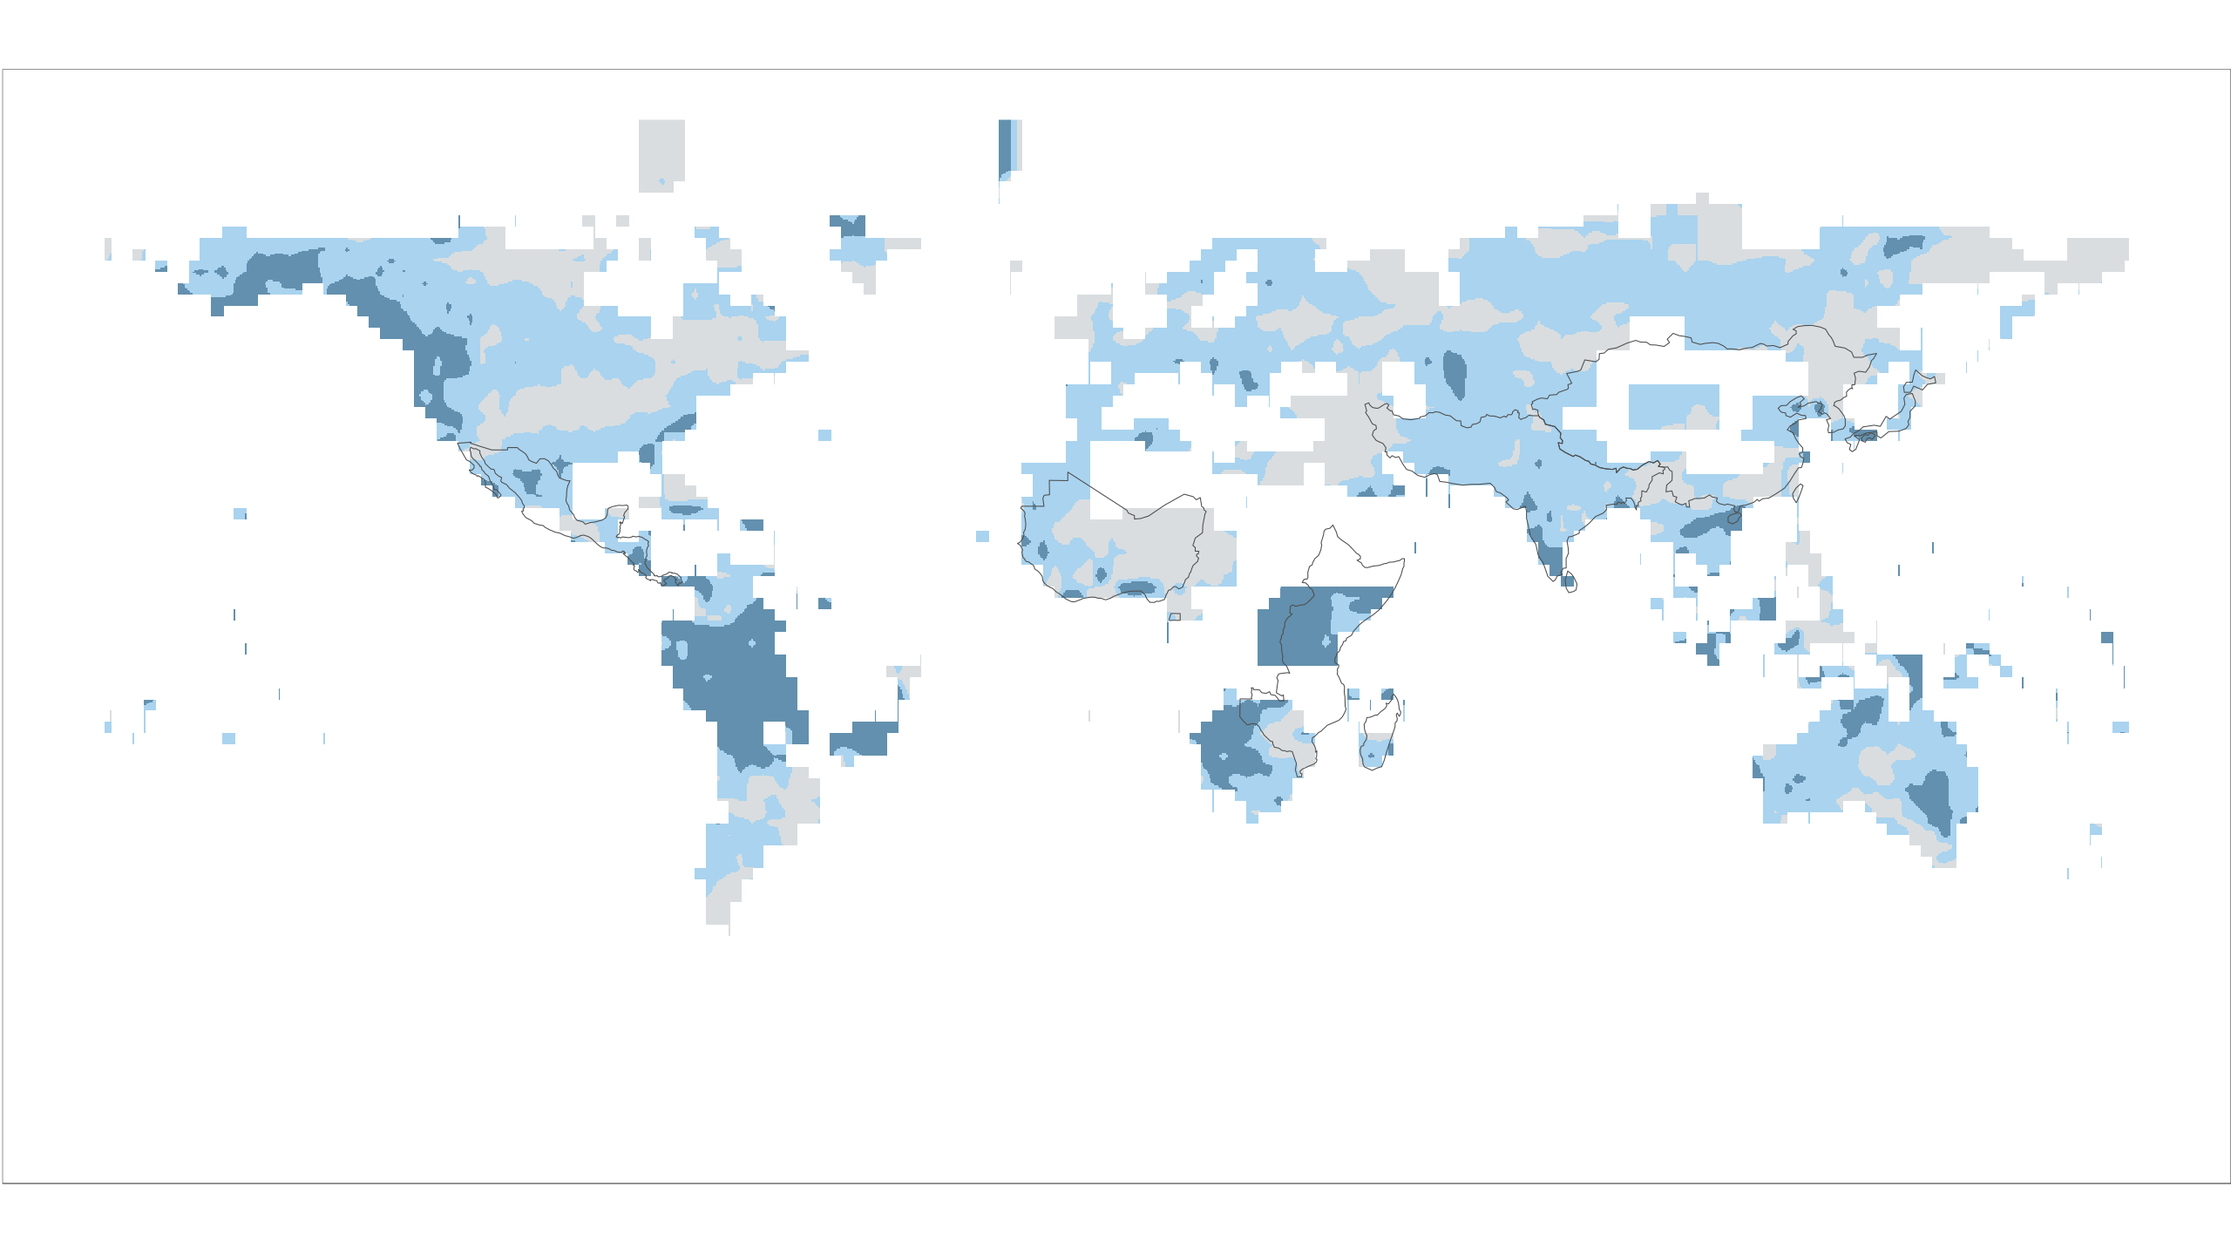
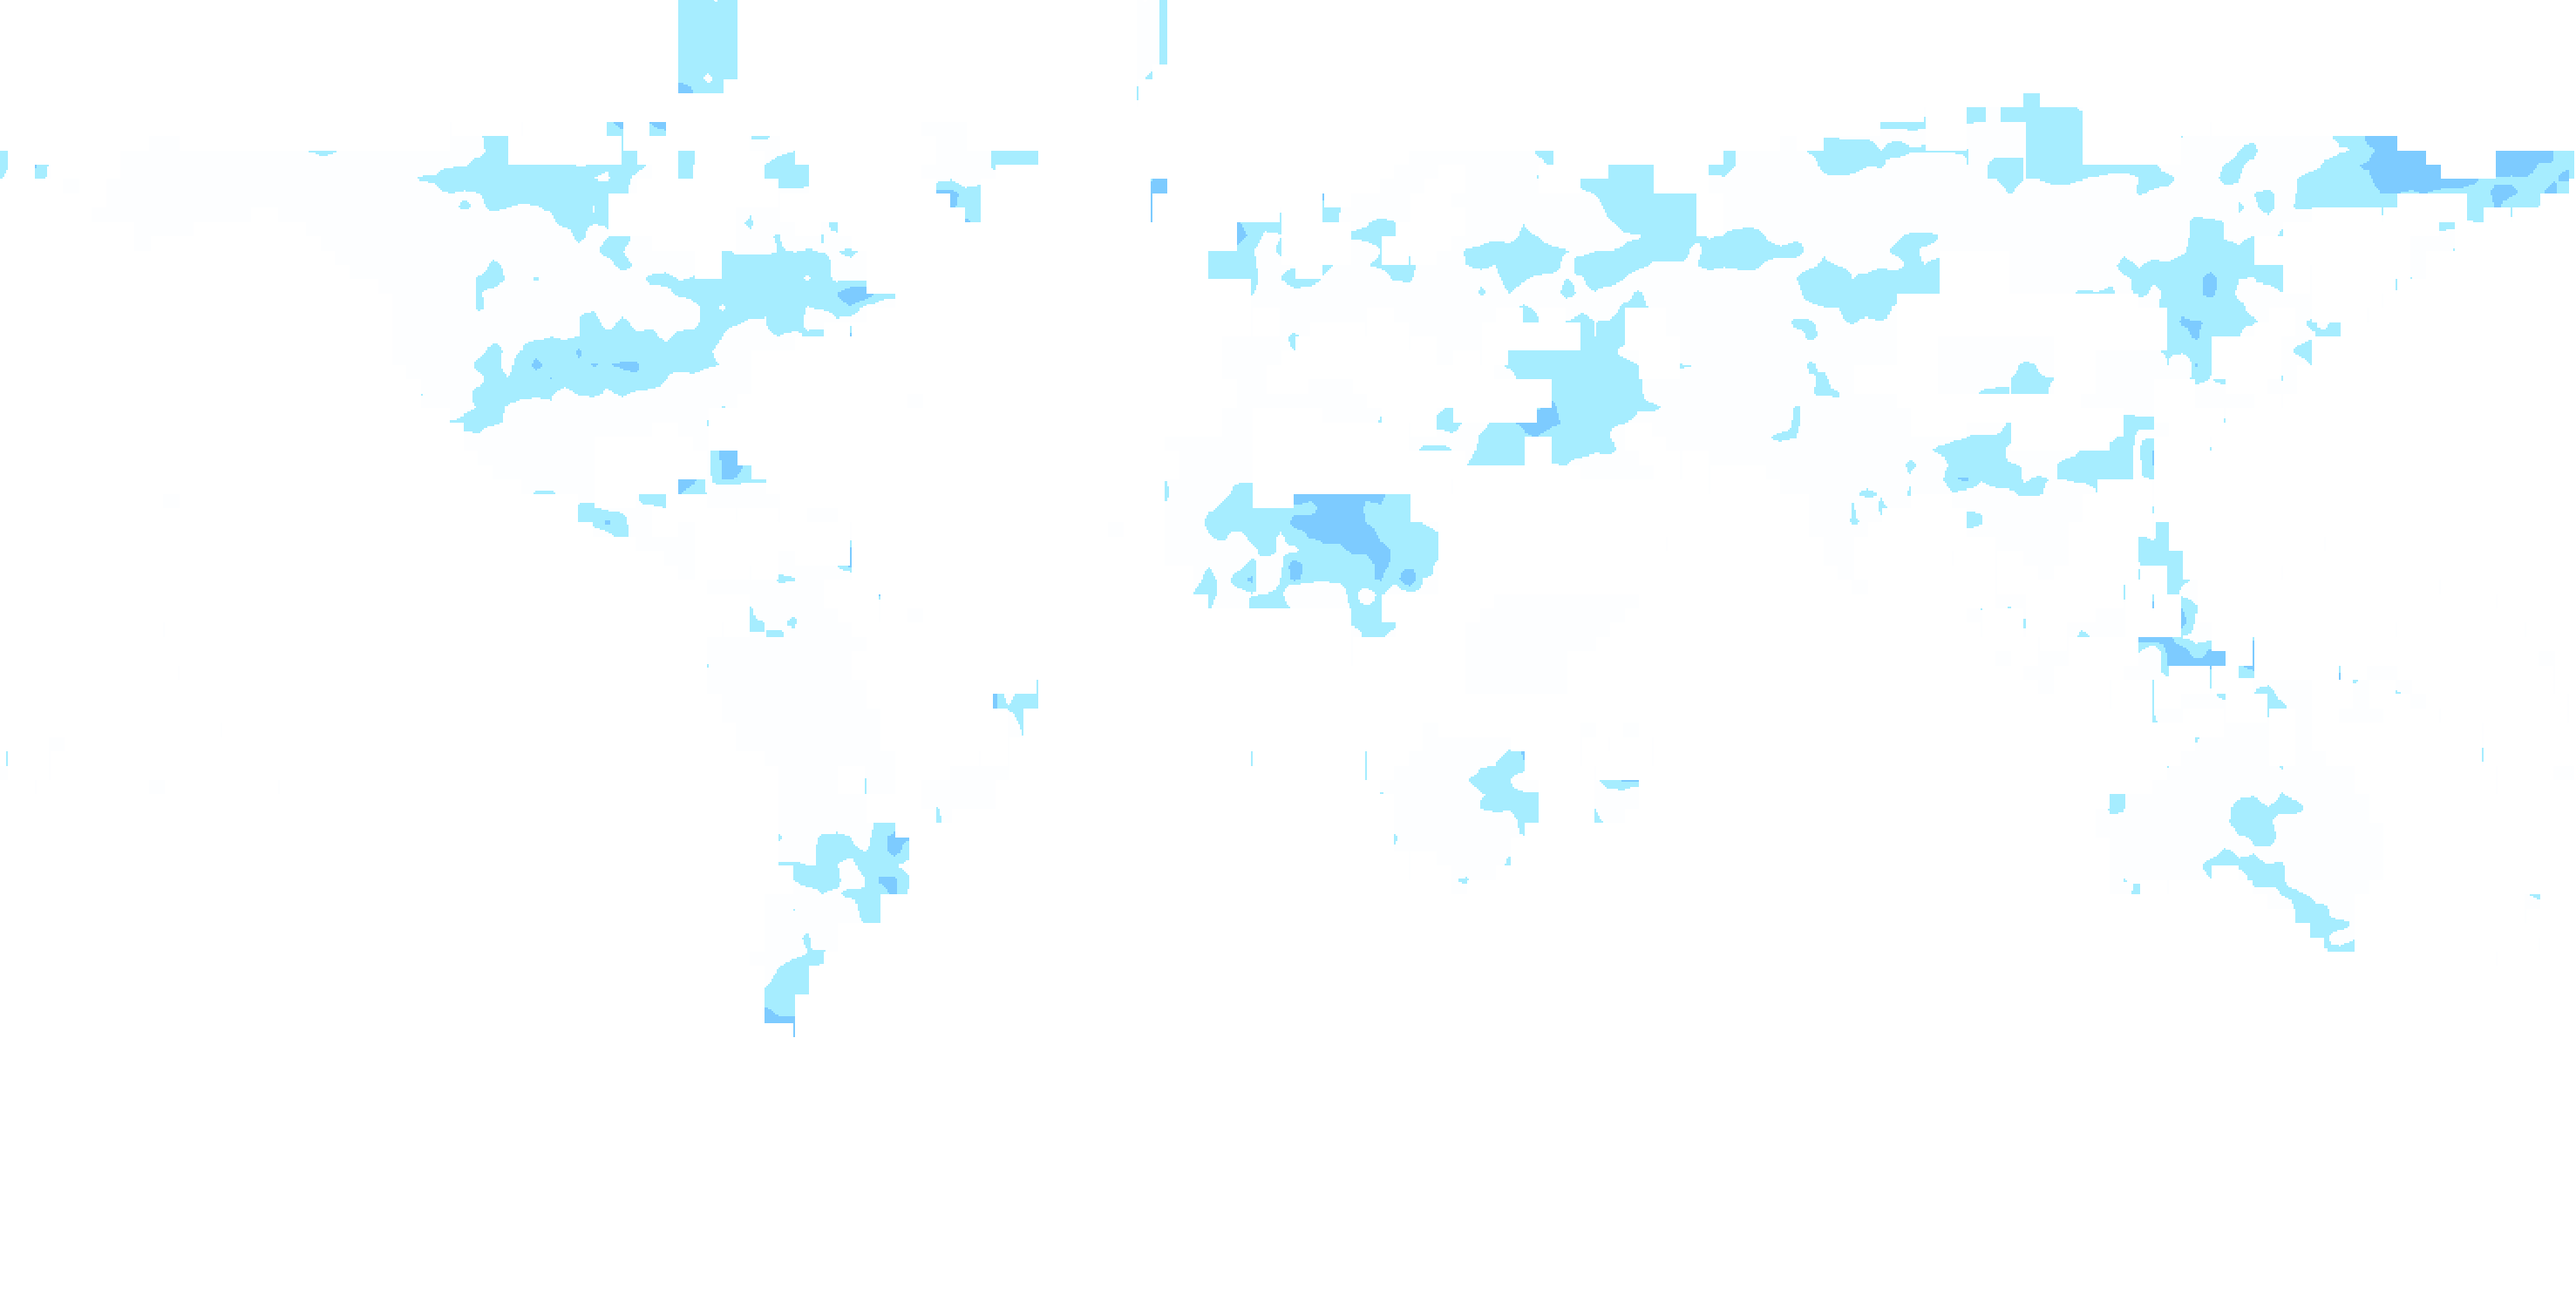
updating files and styles

diff --git a/html/map.html b/html/map.html
@@ -10,11 +10,9 @@
   <link rel='stylesheet' id='et-gf-abel-css' href='https://fonts.googleapis.com/css?family=Abel:400&#038;subset=latin' type='text/css'
     media='all' />
   <script src="https://ajax.googleapis.com/ajax/libs/jquery/3.3.1/jquery.min.js"></script>
-  <link rel="stylesheet" href="https://ajax.googleapis.com/ajax/libs/jqueryui/1.12.1/themes/cupertino/jquery-ui.css">
+  <link rel="stylesheet" href="https://ajax.googleapis.com/ajax/libs/jqueryui/1.12.1/themes/base/jquery-ui.css">
   <script src="https://ajax.googleapis.com/ajax/libs/jqueryui/1.12.1/jquery-ui.min.js"></script>
-  <link rel='stylesheet prefetch' href='https://maxcdn.bootstrapcdn.com/font-awesome/4.7.0/css/font-awesome.min.css'>
   <link rel="stylesheet" href="../css/style.css">
-  <script type="text/javascript" src="../js/darkStyle.js"></script>
   <script type="text/javascript" src="../js/lightStyle.js"></script>
 
 
@@ -72,28 +70,28 @@
     </label>
 
     <label>
-      <input type="radio" name="crop" value="maize" />
+      <input type="radio" name="crop" value="Maize_cv" />
       <div class="crop box">
         <span>Maize</span>
       </div>
     </label>
 
     <label>
-      <input type="radio" name="crop" value="rice" />
+      <input type="radio" name="crop" value="rice_cv" />
       <div class="crop box">
         <span>Rice</span>
       </div>
     </label>
 
     <label>
-      <input type="radio" name="crop" value="wheat" />
+      <input type="radio" name="crop" value="wheat_spring_cv" />
       <div class="precipitation box">
-        <span>Wheat</span>
+        <span>Spring Wheat</span>
       </div>
     </label>
 
     <label>
-      <input type="radio" name="crop" value="wheat_winter" />
+      <input type="radio" name="crop" value="wheat_winter_cv" />
       <div class="crop box">
         <span>Winter wheat</span>
       </div>
@@ -170,16 +168,13 @@
         zoom: mapZoom,
         center: mapCenter,
         mapTypeControlOptions: {
-          mapTypeIds: ['roadmap', 'satellite', 'hybrid', 'terrain',
-            'darkStyledMapType', 'lightStyledMapType']
+          mapTypeIds: ['roadmap', 'satellite', 'hybrid', 'terrain', 'lightStyledMapType']
         }
       });
 
-      var darkStyledMapType = new google.maps.StyledMapType(darkStyle, { name: 'Dark' });
-      var lightStyledMapType = new google.maps.StyledMapType(lightStyle, { name: 'Ligth' });
+      var lightStyledMapType = new google.maps.StyledMapType(lightStyle, { name: 'White' });
 
       //Associate the styled map with the MapTypeId and set it to display.
-      map.mapTypes.set('darkStyledMapType', darkStyledMapType);
       map.mapTypes.set('lightStyledMapType', lightStyledMapType);
       map.setMapTypeId(mapTypeSelected);
 
@@ -214,7 +209,7 @@
 
       if (crop != 'none') {
         cropOverlay = new google.maps.GroundOverlay(
-          "../img/" + 'crops' + '/' + crop + '.png',
+          "../img/" + 'yield' + '/' + crop + '.png',
           mapImageBounds);
         cropOverlay.setOpacity(0.7);
         cropOverlay.setMap(map);

diff --git a/css/style.css b/css/style.css
@@ -235,3 +235,9 @@ font-family:'Abel', Helvetica, Arial, Lucida, sans-serif
 }
 
 
+
+
+.ui-widget {
+  font-family:'Abel', Helvetica, Arial, Lucida, sans-serif;
+  font-size: 1em;
+}

diff --git a/js/lightStyle.js b/js/lightStyle.js
@@ -3,7 +3,7 @@ var lightStyle = [
     "elementType": "geometry",
     "stylers": [
       {
-        "color": "#f5f5f5"
+        "color": "#ffffff"
       }
     ]
   },
